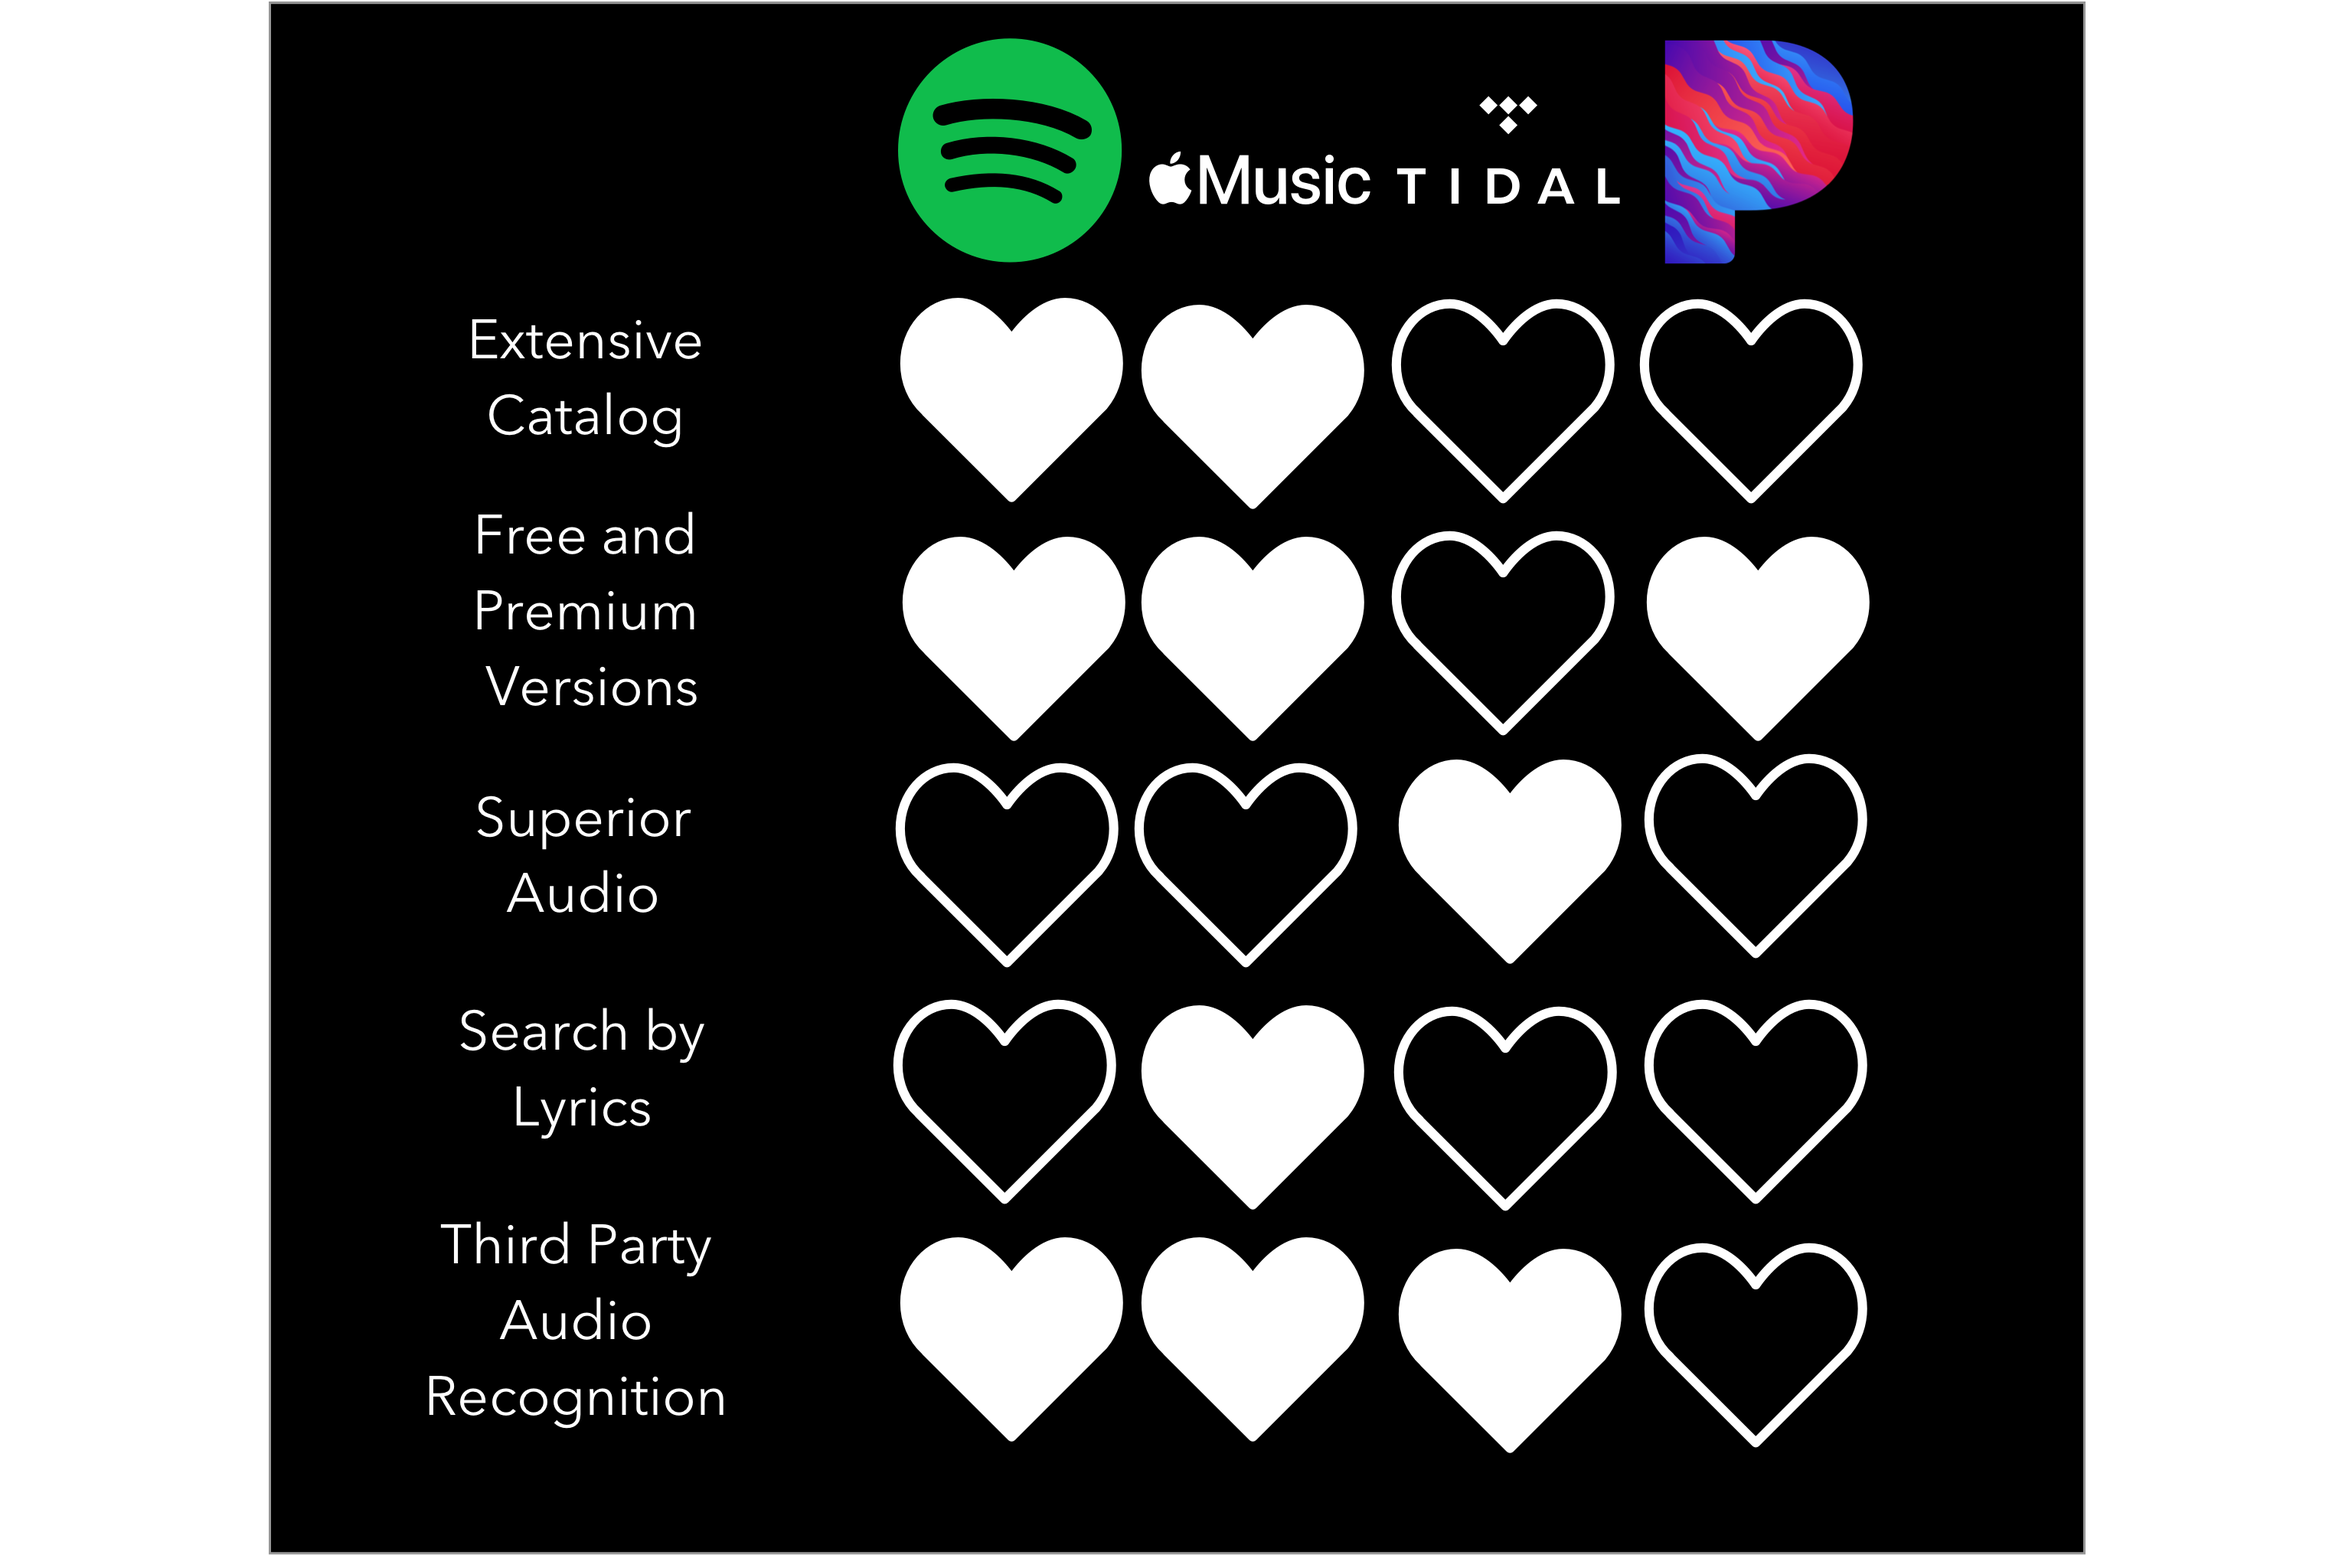
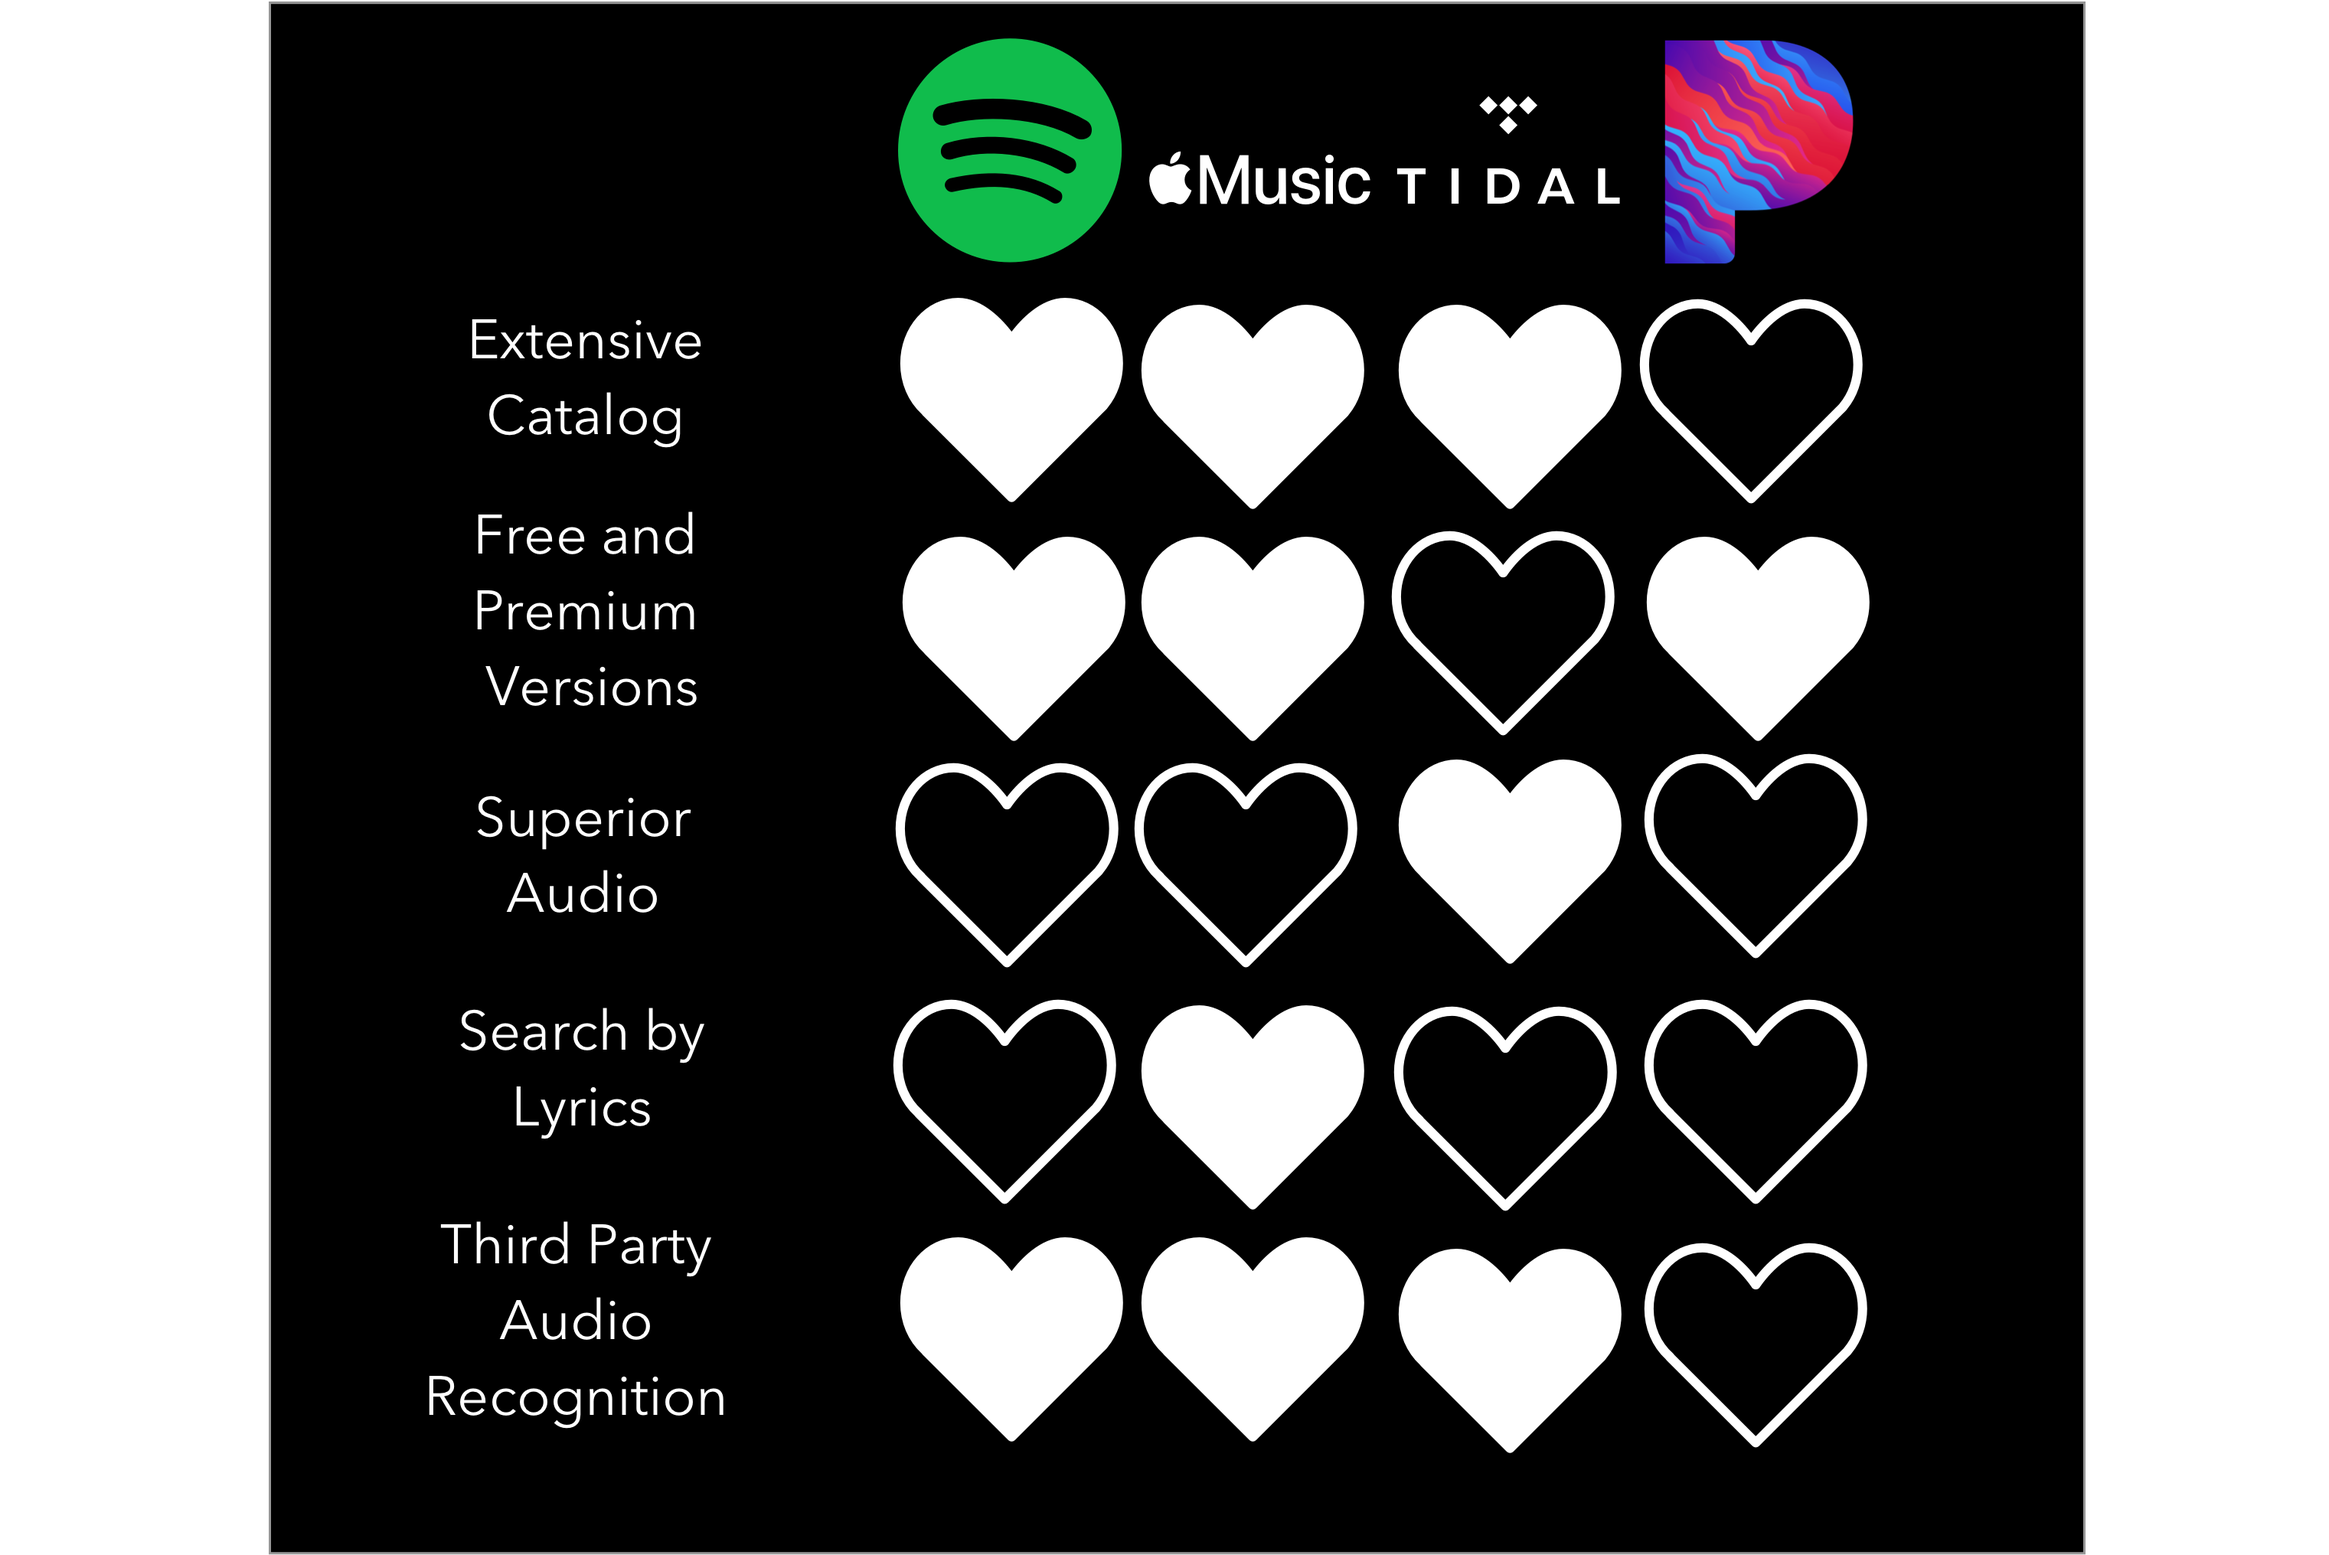
did stuff

Changed region(s): [[0.5934, 0.1861, 0.7183, 0.3412]]

diff --git a/html5up-paradigm-shift/index.html b/html5up-paradigm-shift/index.html
@@ -97,13 +97,15 @@
 										<h2>Business Analysis</h2>
 										<p>A <strong>Competitive Feature Comparison</strong> helped me to identify users' mental models and expectations, as well as identify opportunities for design.* </p>
 										<p>*This chart has been updated to reflect new information. </p>
+										<p>I continued with a <strong>Market Positioning Chart</strong>. With my background research in mind, I wanted to see if the breadth of music offered and the organization of that music, played a role in positioning. 
+										If users only access 10% of music, do diverse offerings or organization play a role in a platform's popularity?</p>
 									</header>
 									<div class="content">
 										<div class="gallery">
-											<a href="images/gallery/fulls/01.jpg" class="landscape"><img src="images/Spotify - Competitor Feature Comparison Chart.png" alt="" /></a>
-											<a href="images/gallery/fulls/02.jpg"><img src="images/gallery/thumbs/02.jpg" alt="" /></a>
-											<a href="images/gallery/fulls/03.jpg"><img src="images/gallery/thumbs/03.jpg" alt="" /></a>
-											<a href="images/gallery/fulls/04.jpg" class="landscape"><img src="images/gallery/thumbs/04.jpg" alt="" /></a>
+											<a href="images/Spotify - Competitor Feature Comparison Chart.png" class="landscape"><img src="images/Spotify - Competitor Feature Comparison Chart.png" alt="" /></a>
+											<a href="images/Market Positioning Chart - Before.png"><img src="images/Market Positioning Chart - Before.png" alt="" /></a>
+											<a href="images/Market Positioning Chart - After.png"><img src="images/Market Positioning Chart - After.png" alt="" /></a>
+											<!-- <a href="images/gallery/fulls/04.jpg" class="landscape"><img src="images/gallery/thumbs/04.jpg" alt="" /></a> -->
 										</div>
 									</div>
 								</section>
@@ -111,14 +113,15 @@
 							<!-- Section -->
 								<section>
 									<header>
-										<h3>Nisl consequat</h3>
-										<p>Aenean ornare velit lacus, ac varius enim ullamcorper eu. Proin aliquam sed facilisis ante interdum congue. Integer mollis, nisl amet convallis, porttitor magna ullamcorper, amet mauris. Ut magna finibus nisi nec lacinia ipsum maximus.</p>
+										<h2>User Research</h2>
+										<p>I did 10 interviews. I really had to dig deep; most users didn't think that they had any problems. </p>
+										<p> Remembering from my research that only 10% of music gets streamed, I asked my users about ways that they discover new music. </p>
 									</header>
 									<div class="content">
 										<div class="gallery">
-											<a href="images/gallery/fulls/05.jpg" class="landscape"><img src="images/gallery/thumbs/05.jpg" alt="" /></a>
-											<a href="images/gallery/fulls/06.jpg"><img src="images/gallery/thumbs/06.jpg" alt="" /></a>
-											<a href="images/gallery/fulls/07.jpg"><img src="images/gallery/thumbs/07.jpg" alt="" /></a>
+											<a href="images/User Research.png" class="landscape"><img src="images/User Research.png" alt="" /></a>
+											<a href="images/Research Stat 1.png"><img src="images/Research Stat 1.png" alt="" /></a>
+											<a href="images/Research Stat 2.png"><img src="images/Research Stat 2.png" alt="" /></a>
 										</div>
 									</div>
 								</section>
